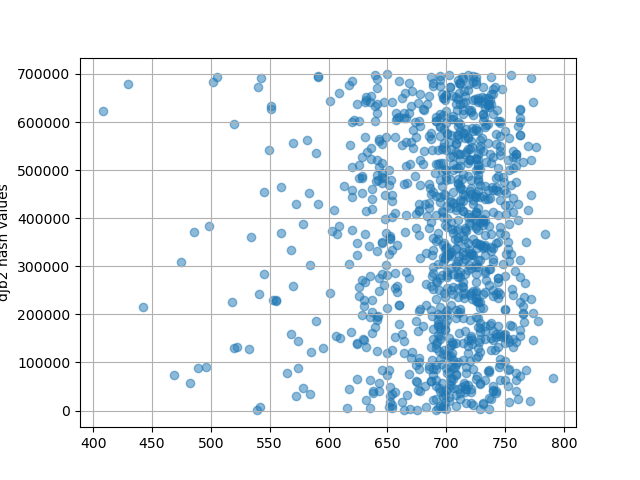
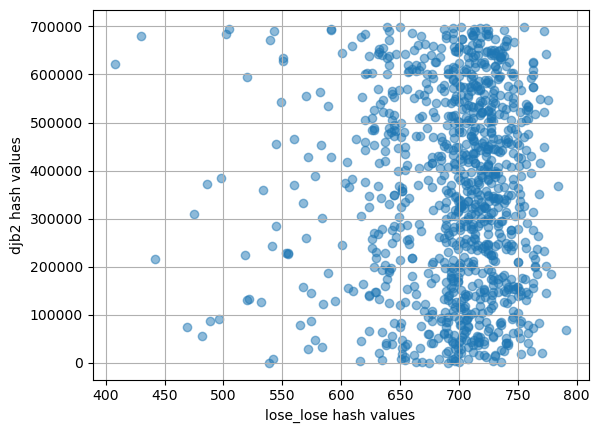
Fix: name x axis in correlation plots and cut off x and y axis labels in correlation plots and histograms
Added name of x axis in correlation plots and fixed an issue causing the y axis name to be cut off certain plots.

diff --git a/src/HashingFunctions.py b/src/HashingFunctions.py
@@ -60,7 +60,7 @@ def distribution(data, hash_function, m):
 
     if not os.path.exists("histograms"):
         os.mkdir("histograms")
-    plt.savefig(f"histograms/{plot_name}")
+    plt.savefig(f"histograms/{plot_name}", bbox_inches='tight')
     plt.clf()
 
 
@@ -86,10 +86,10 @@ def correlation_plot(data, hash_function1, hash_function2, m, sample=1000, seed=
     function2_name = hash_function2.__name__
     plt.scatter(hash_df_sample["hash1"], hash_df_sample["hash2"], alpha=0.5)
     plt.grid(True)
-    plt.ylabel(f"{function1_name} hash values")
+    plt.xlabel(f"{function1_name} hash values")
     plt.ylabel(f"{function2_name} hash values")
     plot_name = f"{data_name}_sample{sample}_{function1_name}_{function2_name}_mod{m}.png"
     if not os.path.exists("correlation plots"):
         os.mkdir("correlation plots")
-    plt.savefig(f"correlation plots/{plot_name}")
+    plt.savefig(f"correlation plots/{plot_name}", bbox_inches='tight')
     plt.clf()
